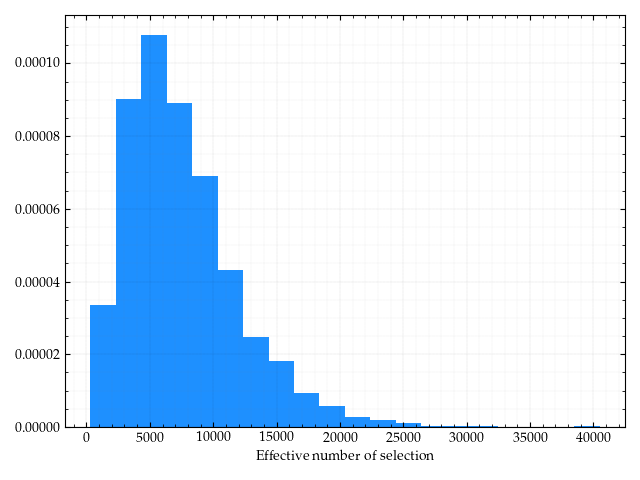
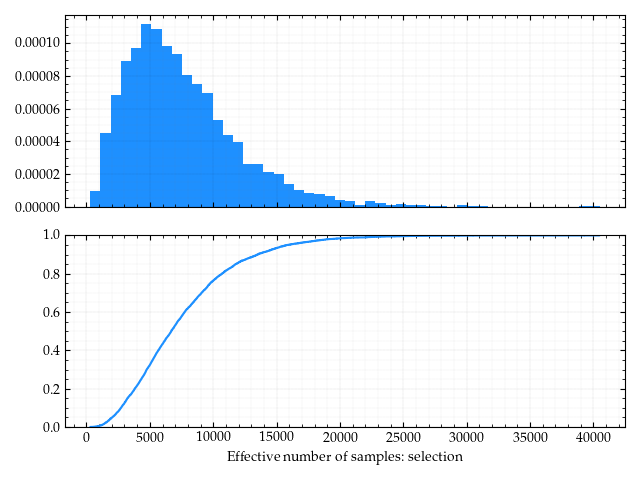
Updating postprocessing plots

diff --git a/sampler/postprocessing_functions.py b/sampler/postprocessing_functions.py
@@ -380,3 +380,15 @@ def add_postprocessing_effects(posterior_samples, model_vector):
     posterior_samples_copy["neff_selection"] = neff_selection
     posterior_samples_copy["neff_events"] = np.array(neff_events)
     return posterior_samples_copy
+
+def plot_neff(neff, filename):
+    import os
+    if not os.path.exists("results/monte_carlo_uncertainty"):
+        os.makedirs("results/monte_carlo_uncertainty")
+
+    fig, ax = plt.subplots(nrows=2, sharex=True)
+    ax[0].hist(neff, bins=50, density=True)
+    ax[1].ecdf(neff)
+    plt.xlabel(f"Effective number of samples: {filename}")
+    utkarshWrapperAX(ax[0]) ; utkarshWrapperAX(ax[1])
+    plt.savefig(f"results/monte_carlo_uncertainty/neff_{filename}.png")

diff --git a/sampler/runs/pdbNG_betaSplit_brokenG_1_full/postprocessing_functions.py b/sampler/runs/pdbNG_betaSplit_brokenG_1_full/postprocessing_functions.py
@@ -380,3 +380,15 @@ def add_postprocessing_effects(posterior_samples, model_vector):
     posterior_samples_copy["neff_selection"] = neff_selection
     posterior_samples_copy["neff_events"] = np.array(neff_events)
     return posterior_samples_copy
+
+def plot_neff(neff, filename):
+    import os
+    if not os.path.exists("results/monte_carlo_uncertainty"):
+        os.makedirs("results/monte_carlo_uncertainty")
+
+    fig, ax = plt.subplots(nrows=2, sharex=True)
+    ax[0].hist(neff, bins=50, density=True)
+    ax[1].ecdf(neff)
+    plt.xlabel(f"Effective number of samples: {filename}")
+    utkarshWrapperAX(ax[0]) ; utkarshWrapperAX(ax[1])
+    plt.savefig(f"results/monte_carlo_uncertainty/neff_{filename}.png")
